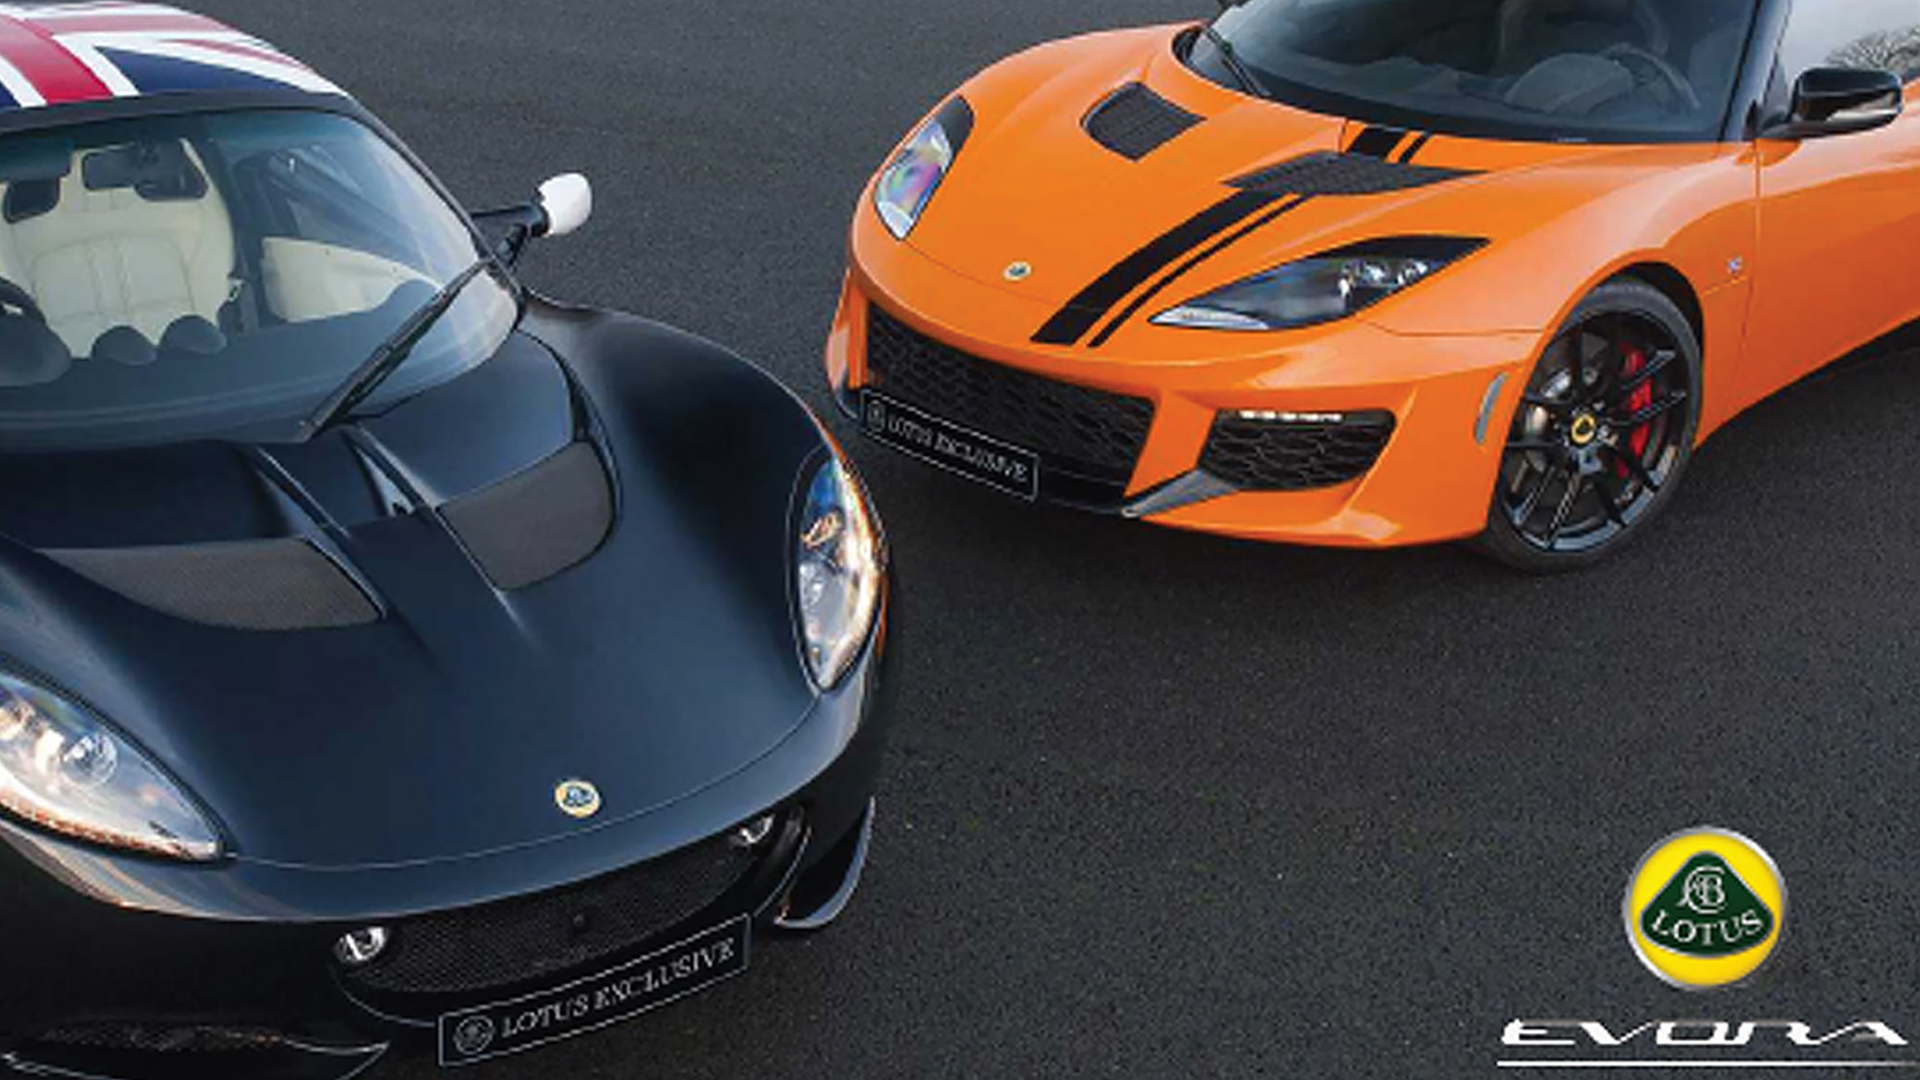
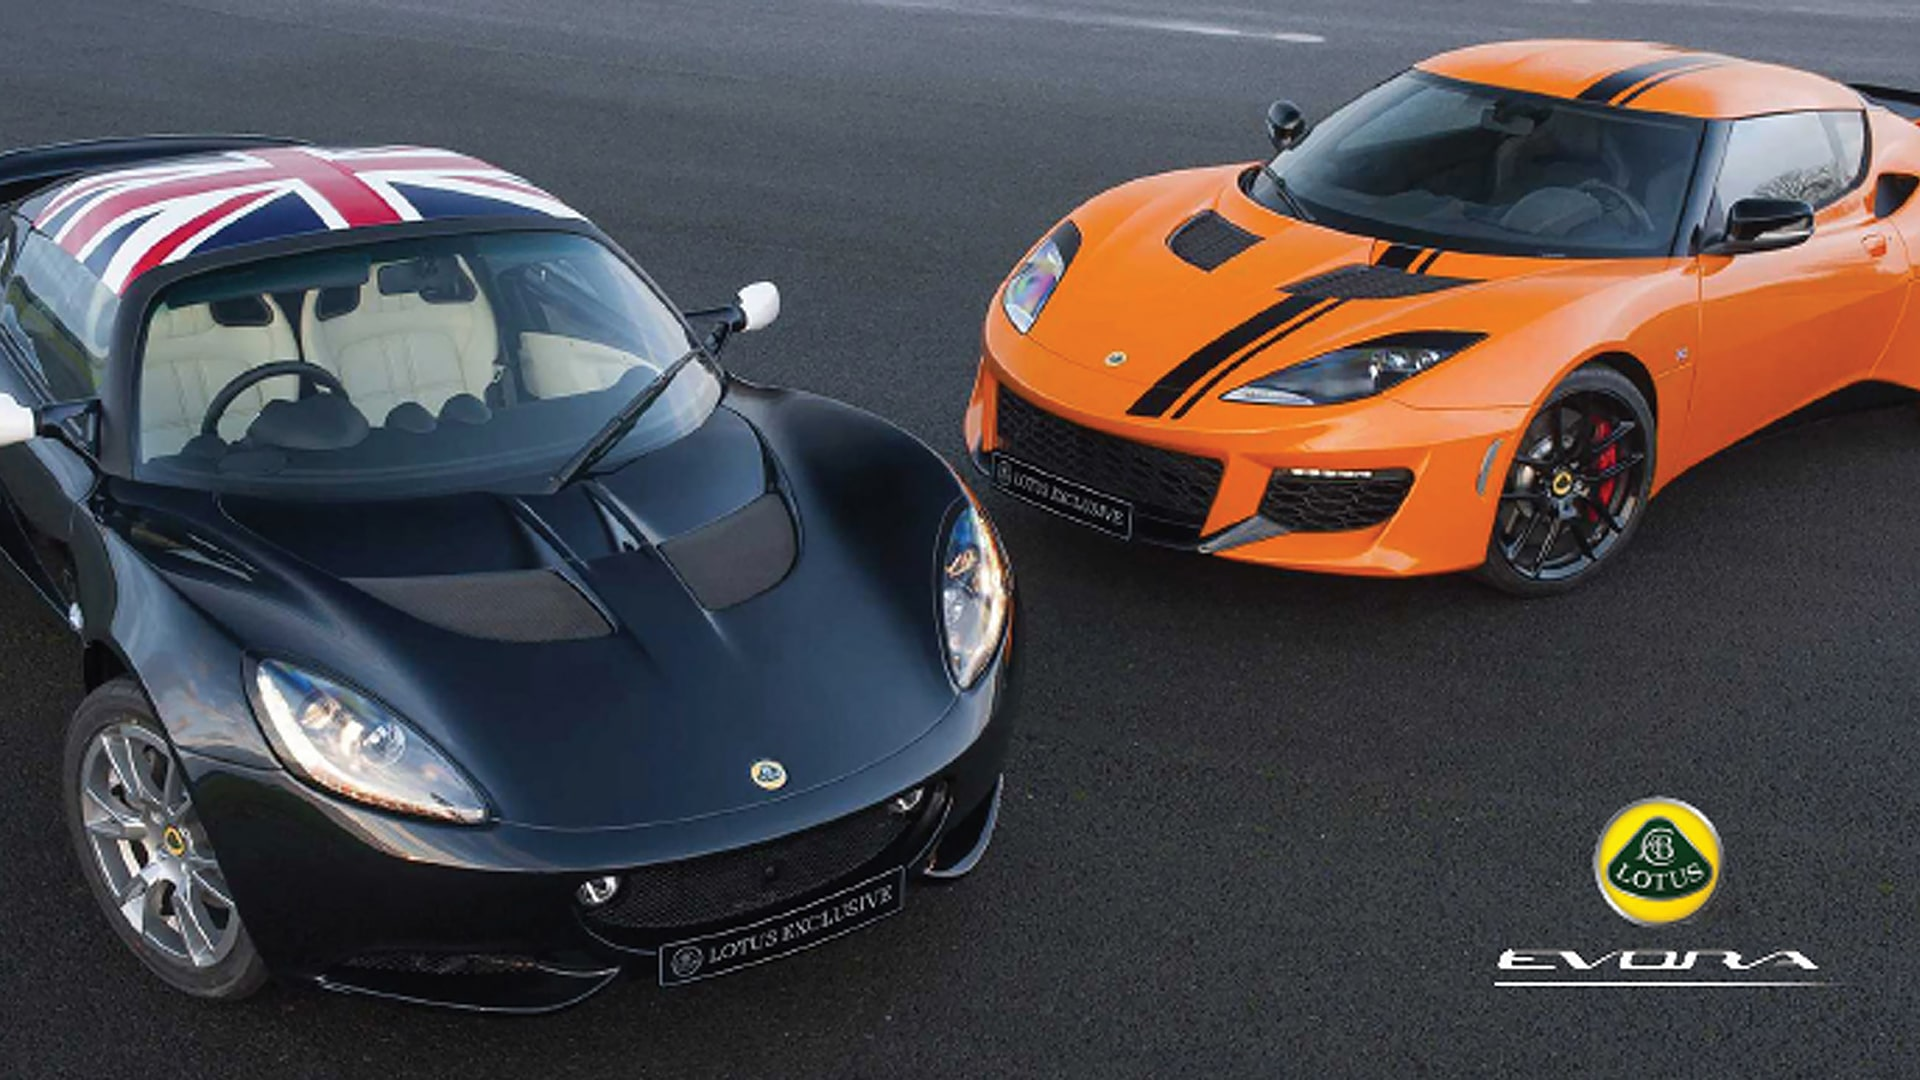
adding slider on evora

diff --git a/evora.html b/evora.html
@@ -213,7 +213,90 @@
         </p>
       </div>
 
-      <img src="./img/yellow.jpg" alt="The Breaking Academy digital display" />
+      <img src="./img/evora/evora_brochure.jpg" alt="Lotus Evora brochure" />
+
+      <!-- TRIAL -->
+
+      <div class="container">
+        <div class="row">
+          <div class="col-md-12 box-center">
+            <div id="slider">
+              <div class="carousel slide" id="carousel">
+                <div class="carousel-inner">
+                  <div class="carousel-item active">
+                    <img src="./img/evora/evora-pages1.jpg" />
+                    <div class="carousel-caption">
+                      <h5>Slide #1</h5>
+                      <p>
+                        Image Credit
+                        <a href="https://placeimg.com" target="_blank"
+                          >placeimg.com</a
+                        >
+                      </p>
+                    </div>
+                  </div>
+                  <div class="carousel-item">
+                    <img src="./img/evora/evora-pages2.jpg" />
+                    <!-- <div class="carousel-caption">
+                      <h5>Slide #2</h5>
+                      <p>
+                        Image Credit
+                        <a href="https://placeimg.com" target="_blank"
+                          >placeimg.com</a
+                        >
+                      </p>
+                    </div> -->
+                  </div>
+                  <div class="carousel-item">
+                    <img src="./img/evora/evora-pages3.jpg" />
+                    <!-- <div class="carousel-caption">
+                      <h5>Slide #3</h5>
+                      <p>
+                        Image Credit
+                        <a href="https://placeimg.com" target="_blank"
+                          >placeimg.com</a
+                        >
+                      </p>
+                    </div> -->
+                  </div>
+                  <div class="carousel-item">
+                    <img src="./img/evora/evora-pages4.jpg" />
+                    <!-- <div class="carousel-caption">
+                      <h5>Slide #4</h5>
+                      <p>
+                        Image Credit
+                        <a href="https://placeimg.com" target="_blank"
+                          >placeimg.com</a
+                        >
+                      </p>
+                    </div> -->
+                  </div>
+                </div>
+                <ol class="carousel-indicators">
+                  <li data-slide-to="0"></li>
+                  <li data-slide-to="1"></li>
+                  <li data-slide-to="2"></li>
+                  <li data-slide-to="3"></li>
+                  <li data-slide-to="4"></li>
+                </ol>
+                <a class="carousel-control-prev" href="#" role="button"
+                  ><span class="carousel-control-prev-icon" aria-hidden="true"
+                    ><span class="sr-only">Previous</span></span
+                  ></a
+                ><a class="carousel-control-next" href="#" role="button"
+                  ><span
+                    class="carousel-control-next-icon"
+                    aria-hidden="true"
+                  ></span
+                  ><span class="sr-only">Next</span></a
+                >
+              </div>
+            </div>
+          </div>
+        </div>
+      </div>
+
+      <!-- END TRIAL -->
     </div>
 
     <!-- Clear Parallax Section -->
@@ -323,6 +406,7 @@
     </footer>
 
     <script src="./js/script.js"></script>
+    <script src="./js/slider.js"></script>
     <script
       src="https://code.jquery.com/jquery-3.4.1.min.js"
       integrity="sha256-CSXorXvZcTkaix6Yvo6HppcZGetbYMGWSFlBw8HfCJo="

diff --git a/js/slider.js b/js/slider.js
@@ -1,0 +1,25 @@
+(function ($, window, document) {
+  "use strict";
+  var $slider = $("#carousel"),
+    hammer = new Hammer($slider.get(0));
+  $slider.find("img").each((index, elem) => {
+    $(elem).prop("draggable", false);
+  });
+  $slider.carousel();
+  $slider.find(".carousel-control-prev").click((e) => {
+    e.preventDefault();
+    $slider.carousel("prev");
+  });
+  $slider.find(".carousel-control-next").click((e) => {
+    e.preventDefault();
+    $slider.carousel("next");
+  });
+  hammer.on("panleft panright", (e) => {
+    e.preventDefault();
+    if (e.type == "panleft") $slider.carousel("next");
+    if (e.type == "panright") $slider.carousel("prev");
+  });
+  $slider.find(".carousel-indicators li").click((e) => {
+    $slider.carousel($(e.target).data("slide-to"));
+  });
+})(jQuery, window, document);

diff --git a/css/style.css b/css/style.css
@@ -778,4 +778,29 @@ p {
   transition: border-color 0.5s, color 0.25s ease-in-out;
 }
 
+#slider {
+  padding: 1.5rem;
+  margin-right: 0;
+  margin-left: 0;
+  border-width: 0.2rem;
+}
+
+.box-center {
+  margin: 0 auto;
+}
+
+.carousel-caption {
+  right: 0;
+  bottom: 0;
+  left: 0;
+  padding-bottom: 30px;
+  opacity: 0;
+  transition: all 800ms linear;
+  background: rgba(0, 0, 0, 0.45);
+}
+
+.carousel-item.active .carousel-caption {
+  opacity: 1;
+}
+
 /*# sourceMappingURL=style.css.map */

diff --git a/scss/_slider.scss b/scss/_slider.scss
@@ -1,0 +1,23 @@
+#slider {
+  padding: 1.5rem;
+  margin-right: 0;
+  margin-left: 0;
+  border-width: 0.2rem;
+}
+.box-center {
+  margin: 0 auto;
+}
+.carousel-caption {
+  right: 0;
+  bottom: 0;
+  left: 0;
+  padding-bottom: 30px;
+  opacity: 0;
+  transition: all 800ms linear;
+  background: rgba(0, 0, 0, 0.45);
+}
+.carousel-item {
+  &.active .carousel-caption {
+    opacity: 1;
+  }
+}

diff --git a/scss/main.scss b/scss/main.scss
@@ -5,3 +5,4 @@
 @import "modal";
 @import "footer";
 @import "parallax";
+@import "slider";
